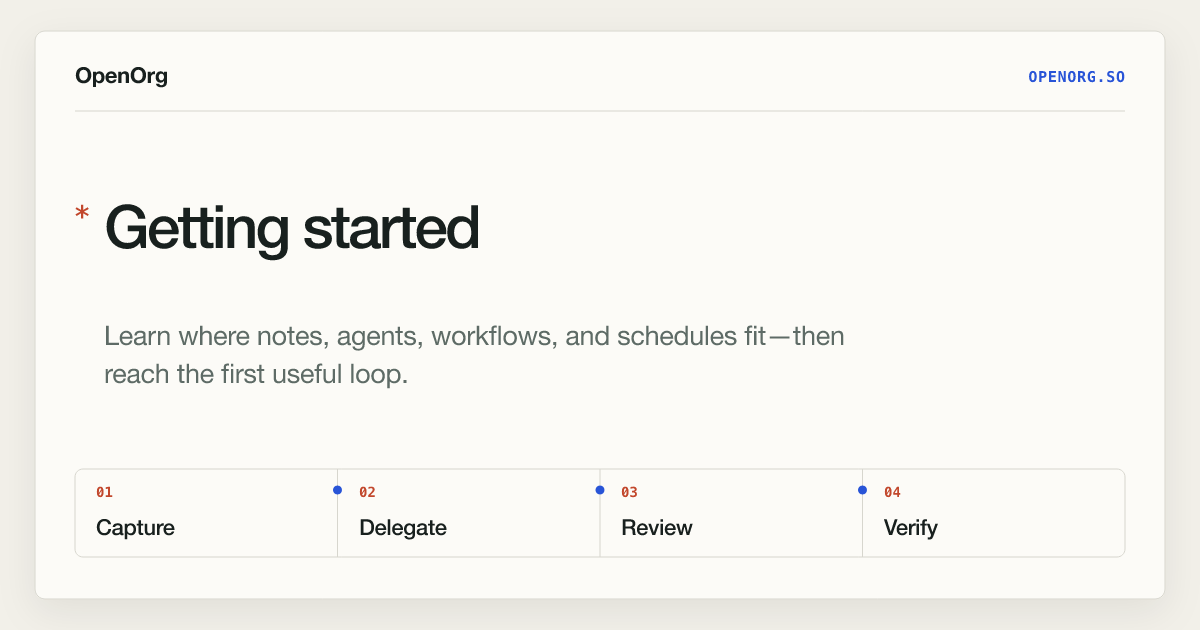
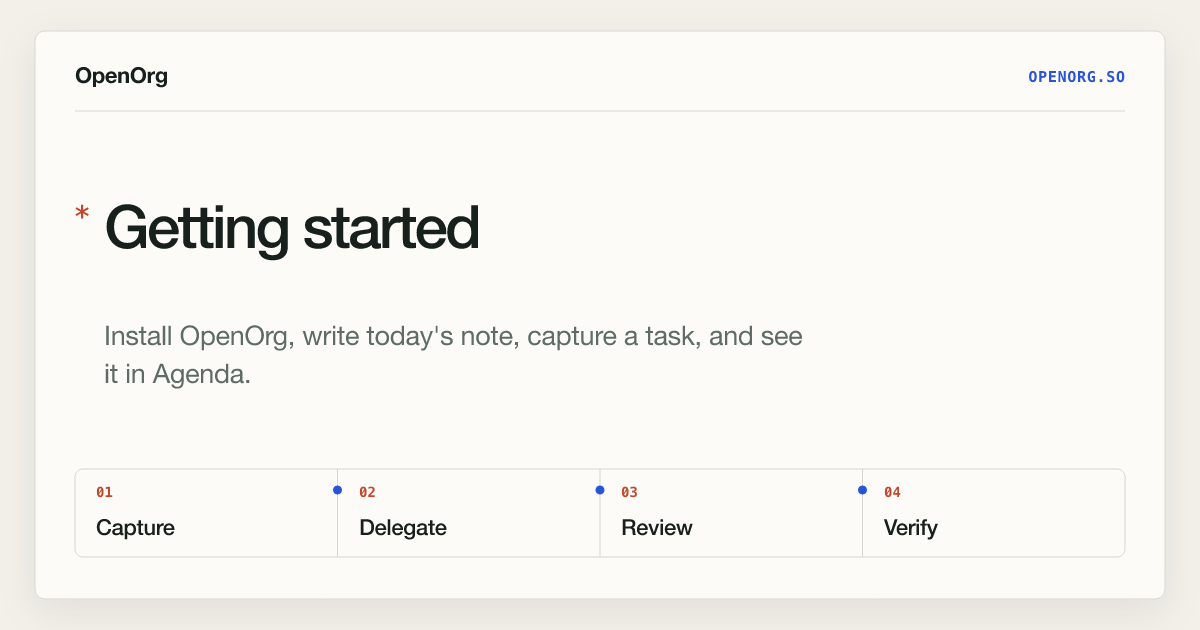
Simplify OpenOrg website onboarding

Changed region(s): [[0.0925, 0.5127, 0.7092, 0.6333]]

diff --git a/site/getting-started.html b/site/getting-started.html
@@ -4,31 +4,31 @@
 <meta charset="utf-8" />
 <meta name="viewport" content="width=device-width, initial-scale=1" />
 <title>Getting started</title>
-<meta name="subtitle" content="Learn where notes, agents, workflows, and schedules fit—then reach the first useful loop." />
+<meta name="subtitle" content="Install OpenOrg, write today's note, capture a task, and see it in Agenda." />
 <link rel="icon" type="image/png" href="assets/favicon.png" />
 <link rel="apple-touch-icon" href="assets/apple-touch-icon.png" />
 <script type="module" src="assets/shiki-vscode.js"></script>
 <script defer src="assets/nav.js"></script>
-<meta name="description" content="Learn where notes, agents, workflows, and schedules fit—then reach the first useful loop." />
+<meta name="description" content="Install OpenOrg, write today's note, capture a task, and see it in Agenda." />
 <link rel="canonical" href="https://openorg.so/getting-started.html" />
 <meta property="og:type" content="website" />
 <meta property="og:site_name" content="OpenOrg" />
 <meta property="og:locale" content="en_US" />
 <meta property="og:title" content="Getting started" />
-<meta property="og:description" content="Learn where notes, agents, workflows, and schedules fit—then reach the first useful loop." />
+<meta property="og:description" content="Install OpenOrg, write today's note, capture a task, and see it in Agenda." />
 <meta property="og:url" content="https://openorg.so/getting-started.html" />
 <meta property="og:image" content="https://openorg.so/assets/og/getting-started.png" />
 <meta property="og:image:secure_url" content="https://openorg.so/assets/og/getting-started.png" />
 <meta property="og:image:type" content="image/png" />
 <meta property="og:image:width" content="1200" />
 <meta property="og:image:height" content="630" />
-<meta property="og:image:alt" content="Getting started — Learn where notes, agents, workflows, and schedules fit—then reach the first useful loop." />
+<meta property="og:image:alt" content="Getting started — Install OpenOrg, write today's note, capture a task, and see it in Agenda." />
 <meta name="twitter:card" content="summary_large_image" />
 <meta name="twitter:title" content="Getting started" />
-<meta name="twitter:description" content="Learn where notes, agents, workflows, and schedules fit—then reach the first useful loop." />
+<meta name="twitter:description" content="Install OpenOrg, write today's note, capture a task, and see it in Agenda." />
 <meta name="twitter:url" content="https://openorg.so/getting-started.html" />
 <meta name="twitter:image" content="https://openorg.so/assets/og/getting-started.png" />
-<meta name="twitter:image:alt" content="Getting started — Learn where notes, agents, workflows, and schedules fit—then reach the first useful loop." />
+<meta name="twitter:image:alt" content="Getting started — Install OpenOrg, write today's note, capture a task, and see it in Agenda." />
 <link rel="stylesheet" href="assets/site.css" />
 <style>
 :root { color-scheme: light dark; }
@@ -64,18 +64,66 @@ a { text-decoration-thickness: 0.08em; text-underline-offset: 0.15em; }
 <div class="org2-nav"><details class="org2-nav-menu" open><summary>Menu</summary><nav aria-label="OpenOrg"><a href="index.html">OpenOrg</a><a href="features.html">How it works</a><a href="getting-started.html">Getting started</a><a href="downloads.html">Downloads</a><a href="openorg-and-org2.html">Architecture</a><details class="org2-nav-dropdown"><summary>Org2 developer docs</summary><div class="org2-nav-dropdown-menu"><a href="reference.html">Overview</a><a href="corpus-flow.html">Corpus flow</a><a href="language-reference.html">Language reference</a><a href="tooling-reference.html">Tooling reference</a><a href="mcp-and-skills.html">MCP and agent skills</a><a href="maintenance-workflows.html">Maintenance and health</a><a href="agent-quickstart.html">Agents and models</a><a href="semantics-status.html">Semantics and status</a><a href="migration.html">Practical migration</a></div></details><details class="org2-nav-dropdown"><summary>Editors</summary><div class="org2-nav-dropdown-menu"><a href="editors.html">Overview</a><a href="editors-macos.html">OpenOrg for macOS</a><a href="editors-vscode.html">VS Code</a><a href="editors-vim.html">Vim / Neovim</a><a href="editors-emacs.html">Emacs</a></div></details><a class="org2-nav-github" href="https://github.com/aviaviavi/org2" target="_blank" rel="noopener noreferrer"><svg class="org2-nav-github-icon" viewBox="0 0 16 16" aria-hidden="true"><path fill="currentColor" d="M8 0C3.58 0 0 3.58 0 8a8.013 8.013 0 0 0 5.47 7.59c.4.07.55-.17.55-.38 0-.19-.01-.82-.01-1.49-2.01.37-2.53-.49-2.69-.94-.09-.23-.48-.94-.82-1.13-.28-.15-.68-.52-.01-.53.63-.01 1.08.58 1.23.82.72 1.21 1.87.87 2.33.66.07-.52.28-.87.5-1.07-1.78-.2-3.64-.89-3.64-3.95 0-.87.31-1.59.82-2.15-.08-.2-.36-1.02.08-2.12 0 0 .67-.21 2.2.82a7.57 7.57 0 0 1 2-.27c.68 0 1.36.09 2 .27 1.53-1.04 2.2-.82 2.2-.82.44 1.1.16 1.92.08 2.12.51.56.82 1.27.82 2.15 0 3.07-1.87 3.75-3.65 3.95.29.25.54.73.54 1.48 0 1.07-.01 1.93-.01 2.19 0 .21.15.46.55.38A8.013 8.013 0 0 0 16 8c0-4.42-3.58-8-8-8Z"/></svg> GitHub</a><form class="org2-site-search" role="search"><button class="org2-site-search-toggle" type="button" aria-label="Open site search" aria-expanded="false">⌕</button><label class="sr-only" for="org2-site-search-input">Search OpenOrg and Org2 docs</label><input id="org2-site-search-input" type="search" placeholder="Search docs" autocomplete="off" aria-label="Search OpenOrg and Org2 docs" aria-expanded="false"/><div class="org2-site-search-results" hidden></div></form></nav></details></div>
 <header class="org2-document-header">
 <h1 class="org2-document-title">Getting started</h1>
-<p class="org2-document-subtitle" role="doc-subtitle">Learn where notes, agents, workflows, and schedules fit—then reach the first useful loop.</p>
+<p class="org2-document-subtitle" role="doc-subtitle">Install OpenOrg, write today's note, capture a task, and see it in Agenda.</p>
 </header>
 <section class="org2-page-intro">
-  <p>Start with the OpenOrg Mac app: connect an agent you already use, ask a question from Home, and keep today's note beside the conversation. You do not need Emacs, prior Org mode experience, or an OpenOrg account.</p>
+  <p>Start with a small loop: open the app, write in today's note, capture one task, and see it appear in Agenda. You do not need to connect an agent, know Org mode, or create an OpenOrg account.</p>
   <div class="org2-page-summary org2-page-summary-sequence" aria-label="Getting started overview">
-    <div><strong>Connect a runtime.</strong><span>Use a supported agent harness you already have, whether it runs locally or remotely.</span></div>
-    <div><strong>Start from Home.</strong><span>A familiar chat box and today's note are ready immediately.</span></div>
-    <div><strong>Review what needs you.</strong><span>Approvals, questions, and finished work return to one inspectable queue.</span></div>
+    <div><strong>Install OpenOrg.</strong><span>Download the Mac app and open the starter workspace.</span></div>
+    <div><strong>Write today's note.</strong><span>Capture an idea in an ordinary local plain-text file.</span></div>
+    <div><strong>See one task in Agenda.</strong><span>Add a scheduled commitment and find it without copying it anywhere else.</span></div>
   </div>
 </section>
 <section class="org2-headline level-1">
-<h1 id="first-the-mental-model">First, the mental model</h1>
+<h1 id="1-install-the-mac-app">1) Install the Mac app</h1>
+<ol>
+<li><p>Download the latest <code>OpenOrg.dmg</code> from the <a href="downloads.html">downloads page</a>.</p></li>
+<li><p>Open the disk image and drag <code>OpenOrg.app</code> into <code>Applications</code>.</p></li>
+<li><p>Open the app. Connect an agent you already use, or choose to continue without one.</p></li>
+<li><p>Choose <strong>Continue to Home</strong>.</p></li>
+</ol>
+<p>OpenOrg creates a small workspace automatically, then opens Home with today's note and an optional chat box. Everything is plain text that you can inspect in Finder, Git, or another editor. OpenOrg never requires an app-specific canonical database.</p>
+<p>If you already keep notes in another folder, expand <strong>Workspace options</strong> during setup or open it later. Use <strong>OpenOrg → Settings… → Workspace</strong> to rename the corpus identity, reveal its folder, or switch locations.</p>
+</section>
+<section class="org2-headline level-1">
+<h1 id="2-write-todays-note">2) Write today's note</h1>
+<p>Type a thought, decision, or rough plan directly into today's note on Home. The note is an ordinary local file, and you can bring it into an agent conversation later if useful.</p>
+<p>If you connected an agent, you can also try:</p>
+<blockquote>Help me turn today's rough notes into a short plan. Show me the proposed structure before changing any files.</blockquote>
+</section>
+<section class="org2-headline level-1">
+<h1 id="3-capture-one-scheduled-commitment">3) Capture one scheduled commitment</h1>
+<p>Open <strong>Capture</strong>, keep <strong>Task</strong> selected, give the commitment a concrete title, and leave <strong>Scheduled</strong> enabled for today. OpenOrg appends the task to today's daily note and refreshes Agenda.</p>
+<p>Open <strong>Agenda</strong> and select the task. The task stays connected to the source file and any surrounding decision, meeting, or project context.</p>
+<p>You can also click <strong>New Note</strong> and write normally. A note might be a project, meeting, person, recipe, decision, or anything else you want to remember.</p>
+<p>Under the rendered view, Org2 stores a simple outline. The same note in source form can look like this:</p>
+<pre class="org2-src language-org" style="padding: 0.9rem 1rem; border: 1px solid rgba(127,127,127,0.28); border-radius: 0.6rem; background: rgba(127,127,127,0.11); font-family: ui-monospace, SFMono-Regular, Menlo, Consolas, 'Liberation Mono', monospace; font-size: 0.92rem; line-height: 1.28;"><code class="language-org">* Plan the launch
+
+The goal is to publish a clear announcement and onboarding guide.
+
+** TODO Draft the announcement
+SCHEDULED: &lt;2030-01-15 Tue&gt;
+
+** Decisions
+
+- Start with a small private beta.
+- Collect feedback after the first week.</code></pre>
+<p>Only a few conventions matter at first:</p>
+<ul>
+<li><p>A line beginning with <code>*</code> is a title; <code>**</code> is a section inside it.</p></li>
+<li><p><code>TODO</code> makes a heading actionable.</p></li>
+<li><p><code>SCHEDULED:</code> gives the task a date so it appears in Agenda.</p></li>
+<li><p>Ordinary paragraphs and lists are just text.</p></li>
+</ul>
+<p>You can use the app's controls for everyday work and open the readable source whenever you want it.</p>
+</section>
+<section class="org2-headline level-1">
+<h1 id="4-use-today-and-agenda">4) Use Today and Agenda</h1>
+<p>Open <strong>Today</strong> for a lightweight daily note. Use it for quick thoughts, a running log, or tasks that do not yet need their own file. To revisit another day, choose <strong>Daily → Choose Date…</strong> in the sidebar or press <code>Cmd-Shift-7</code>; OpenOrg opens the existing note or creates it in the configured daily folder.</p>
+<p>Open <strong>Agenda</strong> to see actionable items collected across the entire corpus. Mark an item done, reschedule it, assign a priority, or open its source note. You do not need to manually copy tasks into a separate task manager.</p>
+</section>
+<section class="org2-headline level-1">
+<h1 id="when-youre-ready-the-mental-model">When you're ready: the mental model</h1>
 <p>OpenOrg is the shared workspace that holds and coordinates work; it is not one autonomous agent that is always awake inside your notes. Your <strong>corpus</strong>—the ordinary folder of <code>.org</code>, <code>.org2</code>, and related files—is the durable memory and source of truth. OpenOrg turns those files into useful views, gives configured agents bounded access to them, and keeps delegated work and decisions inspectable across every agent you use.</p>
 <p>The agent harness you connect is a <strong>runtime</strong>: the engine that actually reasons and acts. Codex, Claude Code, and OpenClaw are the runtimes OpenOrg supports out of the box today, but they are examples rather than the architecture. Other local, remote, hosted, or self-hosted harnesses can use the same files and Org2 interfaces as adapters are added.</p>
 <p>A runtime sees the current conversation, the context you selected or authorized, the active corpus's instructions and capabilities, and the tools OpenOrg exposes for that turn or run. It does not silently absorb the whole workspace or keep watching it after the turn ends.</p>
@@ -142,56 +190,7 @@ a { text-decoration-thickness: 0.08em; text-underline-offset: 0.15em; }
 </section>
 </section>
 <section class="org2-headline level-1">
-<h1 id="1-install-the-mac-app-and-connect-an-agent">1) Install the Mac app and connect an agent</h1>
-<p>OpenOrg is the recommended starting point. It gives you a simple Home view first, with deeper notes, planning, search, meetings, and Agent Work available when you need them.</p>
-<ol>
-<li><p>Download the latest <code>OpenOrg.dmg</code> from the <a href="downloads.html">downloads page</a>.</p></li>
-<li><p>Open the disk image and drag <code>OpenOrg.app</code> into <code>Applications</code>.</p></li>
-<li><p>Open the app and choose an agent already installed on your Mac.</p></li>
-<li><p>Sign in if needed, then choose <strong>Continue to Home</strong>.</p></li>
-</ol>
-<p>OpenOrg creates a small workspace automatically, then opens Home with a chat box and today's note. Everything is plain text that you can inspect in Finder, Git, or another editor. OpenOrg never requires an app-specific canonical database.</p>
-<p>You can continue without an agent. If you already keep notes in another folder, expand <strong>Workspace options</strong> during setup or open it later. Use <strong>OpenOrg → Settings… → Workspace</strong> to rename the corpus identity, reveal its folder, or switch locations.</p>
-</section>
-<section class="org2-headline level-1">
-<h1 id="2-ask-something-or-write-todays-note">2) Ask something or write today's note</h1>
-<p>Home is deliberately familiar: type into the chat box to ask the connected agent a question, or type directly into today's note beside it. The note is ordinary text, and you can bring it into the conversation whenever it is useful context.</p>
-<p>Try a concrete first request:</p>
-<blockquote>Help me turn today's rough notes into a short plan. Show me the proposed structure before changing any files.</blockquote>
-</section>
-<section class="org2-headline level-1">
-<h1 id="3-capture-one-scheduled-commitment">3) Capture one scheduled commitment</h1>
-<p>Open <strong>Capture</strong>, keep <strong>Task</strong> selected, give the commitment a concrete title, and leave <strong>Scheduled</strong> enabled for today. OpenOrg appends the task to today's daily note and refreshes Agenda.</p>
-<p>Open <strong>Agenda</strong> and select the task. The task stays connected to the source file and any surrounding decision, meeting, or project context.</p>
-<p>You can also click <strong>New Note</strong> and write normally. A note might be a project, meeting, person, recipe, decision, or anything else you want to remember.</p>
-<p>Under the rendered view, Org2 stores a simple outline. The same note in source form can look like this:</p>
-<pre class="org2-src language-org" style="padding: 0.9rem 1rem; border: 1px solid rgba(127,127,127,0.28); border-radius: 0.6rem; background: rgba(127,127,127,0.11); font-family: ui-monospace, SFMono-Regular, Menlo, Consolas, 'Liberation Mono', monospace; font-size: 0.92rem; line-height: 1.28;"><code class="language-org">* Plan the launch
-
-The goal is to publish a clear announcement and onboarding guide.
-
-** TODO Draft the announcement
-SCHEDULED: &lt;2030-01-15 Tue&gt;
-
-** Decisions
-
-- Start with a small private beta.
-- Collect feedback after the first week.</code></pre>
-<p>Only a few conventions matter at first:</p>
-<ul>
-<li><p>A line beginning with <code>*</code> is a title; <code>**</code> is a section inside it.</p></li>
-<li><p><code>TODO</code> makes a heading actionable.</p></li>
-<li><p><code>SCHEDULED:</code> gives the task a date so it appears in Agenda.</p></li>
-<li><p>Ordinary paragraphs and lists are just text.</p></li>
-</ul>
-<p>You can use the app's controls for everyday work and open the readable source whenever you want it.</p>
-</section>
-<section class="org2-headline level-1">
-<h1 id="4-use-today-and-agenda">4) Use Today and Agenda</h1>
-<p>Open <strong>Today</strong> for a lightweight daily note. Use it for quick thoughts, a running log, or tasks that do not yet need their own file. To revisit another day, choose <strong>Daily → Choose Date…</strong> in the sidebar or press <code>Cmd-Shift-7</code>; OpenOrg opens the existing note or creates it in the configured daily folder.</p>
-<p>Open <strong>Agenda</strong> to see actionable items collected across the entire corpus. Mark an item done, reschedule it, assign a priority, or open its source note. You do not need to manually copy tasks into a separate task manager.</p>
-</section>
-<section class="org2-headline level-1">
-<h1 id="5-review-approvals-and-agent-work">5) Review approvals and agent work</h1>
+<h1 id="review-approvals-and-agent-work">Review approvals and agent work</h1>
 <p>For a bounded delegated task, select the relevant note or commitment and ask for one concrete outcome. OpenOrg records the selected files, thread, run, citations, and resulting artifact as durable workspace context.</p>
 <p>Open <strong>Agent Work</strong> for one queue across every configured runtime. Inspect what is blocked, answer clarifying questions, and review the run status, cited inputs, artifacts, and validation before you approve, revise, or reject consequential work.</p>
 <p>Finally, reveal the workspace in Finder and open the resulting <code>.org</code> file in another editor. The first useful loop ends with portable work you control.</p>

diff --git a/site/index.html b/site/index.html
@@ -3,32 +3,32 @@
 <head>
 <meta charset="utf-8" />
 <meta name="viewport" content="width=device-width, initial-scale=1" />
-<title>OpenOrg</title>
-<meta name="subtitle" content="Build your knowledge locally and put it to work." />
+<title>A workspace for your life, work, and AI agents.</title>
+<meta name="subtitle" content="Keep your notes, tasks, and projects in local plain-text files you own. Organize your day, develop ideas, and put your knowledge to work with the agents you choose." />
 <link rel="icon" type="image/png" href="assets/favicon.png" />
 <link rel="apple-touch-icon" href="assets/apple-touch-icon.png" />
 <script type="module" src="assets/shiki-vscode.js"></script>
 <script defer src="assets/nav.js"></script>
-<meta name="description" content="Build your knowledge locally and put it to work." />
+<meta name="description" content="Keep your notes, tasks, and projects in local plain-text files you own. Organize your day, develop ideas, and put your knowledge to work with the agents you choose." />
 <link rel="canonical" href="https://openorg.so/" />
 <meta property="og:type" content="website" />
 <meta property="og:site_name" content="OpenOrg" />
 <meta property="og:locale" content="en_US" />
-<meta property="og:title" content="OpenOrg" />
-<meta property="og:description" content="Build your knowledge locally and put it to work." />
+<meta property="og:title" content="A workspace for your life, work, and AI agents." />
+<meta property="og:description" content="Keep your notes, tasks, and projects in local plain-text files you own. Organize your day, develop ideas, and put your knowledge to work with the agents you choose." />
 <meta property="og:url" content="https://openorg.so/" />
 <meta property="og:image" content="https://openorg.so/assets/og/index.png" />
 <meta property="og:image:secure_url" content="https://openorg.so/assets/og/index.png" />
 <meta property="og:image:type" content="image/png" />
 <meta property="og:image:width" content="1200" />
 <meta property="og:image:height" content="630" />
-<meta property="og:image:alt" content="OpenOrg — Build your knowledge locally and put it to work." />
+<meta property="og:image:alt" content="A workspace for your life, work, and AI agents. — Keep your notes, tasks, and projects in local plain-text files you own. Organize your day, develop ideas, and put your knowledge to work with the agents you choose." />
 <meta name="twitter:card" content="summary_large_image" />
-<meta name="twitter:title" content="OpenOrg" />
-<meta name="twitter:description" content="Build your knowledge locally and put it to work." />
+<meta name="twitter:title" content="A workspace for your life, work, and AI agents." />
+<meta name="twitter:description" content="Keep your notes, tasks, and projects in local plain-text files you own. Organize your day, develop ideas, and put your knowledge to work with the agents you choose." />
 <meta name="twitter:url" content="https://openorg.so/" />
 <meta name="twitter:image" content="https://openorg.so/assets/og/index.png" />
-<meta name="twitter:image:alt" content="OpenOrg — Build your knowledge locally and put it to work." />
+<meta name="twitter:image:alt" content="A workspace for your life, work, and AI agents. — Keep your notes, tasks, and projects in local plain-text files you own. Organize your day, develop ideas, and put your knowledge to work with the agents you choose." />
 <link rel="stylesheet" href="assets/site.css" />
 <style>
 :root { color-scheme: light dark; }
@@ -63,11 +63,10 @@ a { text-decoration-thickness: 0.08em; text-underline-offset: 0.15em; }
 <main class="org2-document">
 <div class="org2-nav"><details class="org2-nav-menu" open><summary>Menu</summary><nav aria-label="OpenOrg"><a href="index.html">OpenOrg</a><a href="features.html">How it works</a><a href="getting-started.html">Getting started</a><a href="downloads.html">Downloads</a><a href="openorg-and-org2.html">Architecture</a><details class="org2-nav-dropdown"><summary>Org2 developer docs</summary><div class="org2-nav-dropdown-menu"><a href="reference.html">Overview</a><a href="corpus-flow.html">Corpus flow</a><a href="language-reference.html">Language reference</a><a href="tooling-reference.html">Tooling reference</a><a href="mcp-and-skills.html">MCP and agent skills</a><a href="maintenance-workflows.html">Maintenance and health</a><a href="agent-quickstart.html">Agents and models</a><a href="semantics-status.html">Semantics and status</a><a href="migration.html">Practical migration</a></div></details><details class="org2-nav-dropdown"><summary>Editors</summary><div class="org2-nav-dropdown-menu"><a href="editors.html">Overview</a><a href="editors-macos.html">OpenOrg for macOS</a><a href="editors-vscode.html">VS Code</a><a href="editors-vim.html">Vim / Neovim</a><a href="editors-emacs.html">Emacs</a></div></details><a class="org2-nav-github" href="https://github.com/aviaviavi/org2" target="_blank" rel="noopener noreferrer"><svg class="org2-nav-github-icon" viewBox="0 0 16 16" aria-hidden="true"><path fill="currentColor" d="M8 0C3.58 0 0 3.58 0 8a8.013 8.013 0 0 0 5.47 7.59c.4.07.55-.17.55-.38 0-.19-.01-.82-.01-1.49-2.01.37-2.53-.49-2.69-.94-.09-.23-.48-.94-.82-1.13-.28-.15-.68-.52-.01-.53.63-.01 1.08.58 1.23.82.72 1.21 1.87.87 2.33.66.07-.52.28-.87.5-1.07-1.78-.2-3.64-.89-3.64-3.95 0-.87.31-1.59.82-2.15-.08-.2-.36-1.02.08-2.12 0 0 .67-.21 2.2.82a7.57 7.57 0 0 1 2-.27c.68 0 1.36.09 2 .27 1.53-1.04 2.2-.82 2.2-.82.44 1.1.16 1.92.08 2.12.51.56.82 1.27.82 2.15 0 3.07-1.87 3.75-3.65 3.95.29.25.54.73.54 1.48 0 1.07-.01 1.93-.01 2.19 0 .21.15.46.55.38A8.013 8.013 0 0 0 16 8c0-4.42-3.58-8-8-8Z"/></svg> GitHub</a><form class="org2-site-search" role="search"><button class="org2-site-search-toggle" type="button" aria-label="Open site search" aria-expanded="false">⌕</button><label class="sr-only" for="org2-site-search-input">Search OpenOrg and Org2 docs</label><input id="org2-site-search-input" type="search" placeholder="Search docs" autocomplete="off" aria-label="Search OpenOrg and Org2 docs" aria-expanded="false"/><div class="org2-site-search-results" hidden></div></form></nav></details></div>
 <header class="org2-document-header">
-<h1 class="org2-document-title">OpenOrg</h1>
-<p class="org2-document-subtitle" role="doc-subtitle">Build your knowledge locally and put it to work.</p>
+<h1 class="org2-document-title">A workspace for your life, work, and AI agents.</h1>
+<p class="org2-document-subtitle" role="doc-subtitle">Keep your notes, tasks, and projects in local plain-text files you own. Organize your day, develop ideas, and put your knowledge to work with the agents you choose.</p>
 </header>
 <section class="org2-page-intro org2-home-hero">
-  <p>OpenOrg is a local-first workspace where your notes, decisions, commitments, and agent work become durable follow-through. Use the agent, model, or provider you choose while your knowledge stays in files you control.</p>
   <nav class="org2-hero-actions" aria-label="Start with OpenOrg">
     <a class="org2-hero-action org2-hero-action-primary" href="getting-started.html">Get started <span aria-hidden="true">→</span></a>
     <a class="org2-hero-action" href="openorg-and-org2.html">How OpenOrg and Org2 fit <span aria-hidden="true">→</span></a>
@@ -230,7 +229,7 @@ a { text-decoration-thickness: 0.08em; text-underline-offset: 0.15em; }
 </section>
 <section class="org2-headline level-1">
 <h1 id="start-here">Start here</h1>
-<p>OpenOrg Alpha is for technical founders, operators, and knowledge workers who want agents working over files they own. Org2 provides the independently specified compiler/runtime, CLI, and editor tooling underneath the workspace.</p>
+<p>OpenOrg Alpha is for people who want notes, tasks, projects, and AI agents working from local files they own. Org2 provides the independently specified compiler/runtime, CLI, and editor tooling underneath the workspace.</p>
 <ul>
 <li><p><a href="getting-started.html">Getting started</a></p></li>
 <li><p><a href="openorg-and-org2.html">OpenOrg and Org2 architecture</a></p></li>

diff --git a/site/sitemap.html b/site/sitemap.html
@@ -40,7 +40,7 @@ a { text-decoration-thickness: 0.08em; text-underline-offset: 0.15em; }
 <li><a href="features.html">OpenOrg features</a></li>
 <li><a href="getting-started.html">Getting started</a></li>
 <li><a href="headless-server.html">Headless OpenOrg server</a></li>
-<li><a href="index.html">OpenOrg</a></li>
+<li><a href="index.html">A workspace for your life, work, and AI agents.</a></li>
 <li><a href="ingestion-pipeline.html">Agent ingestion pipeline</a></li>
 <li><a href="knowledge-compiler-roadmap.html">Knowledge compiler roadmap moved</a></li>
 <li><a href="language-reference.html">Language reference</a></li>
